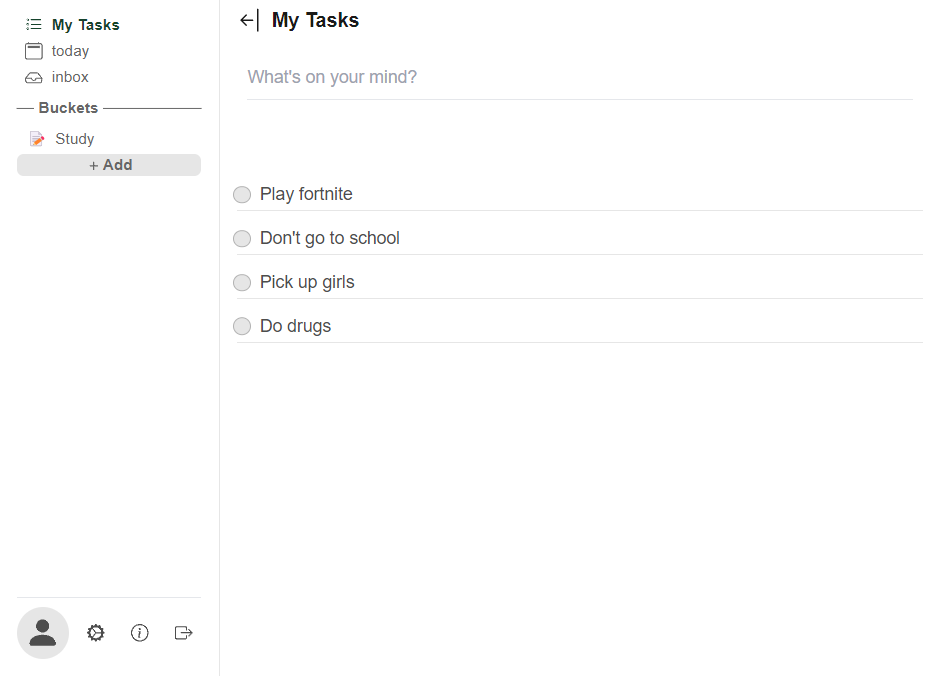
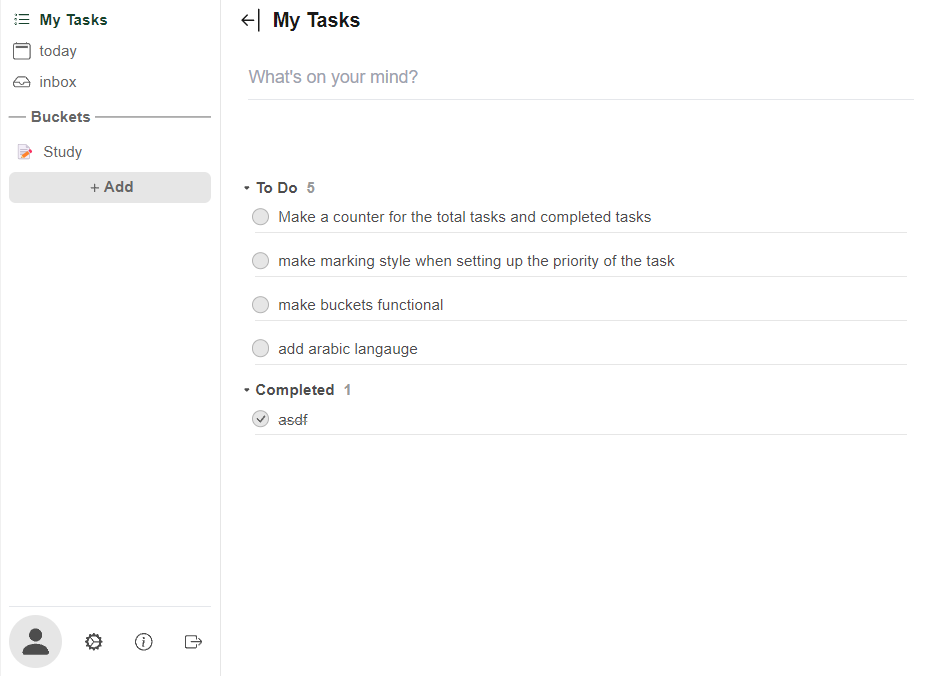
added count at the sidebar lists, adjsuted some button sizes

diff --git a/src/components/SideBar.tsx b/src/components/SideBar.tsx
@@ -6,6 +6,7 @@ import { useQuery, useMutation, useQueryClient } from '@tanstack/react-query';
 // API
 import signOut from '@/api/signOut';
 import checkAuthAndGetUser from '@/api/checkAuthAndGetUser';
+import getTasks from '@/api/getTasks';
 
 // UTILS
 import Redirector from '@/utils/Redirector';
@@ -45,7 +46,12 @@ export default function SideBar () {
   const { data: user, isLoading } = useQuery({
     queryKey: ['auth'],
     queryFn: checkAuthAndGetUser
-  })
+  });
+
+  const { data: tasks } = useQuery({
+    queryKey: ['tasks'],
+    queryFn: getTasks
+  }) 
 
   const signOutMutation = useMutation({
     mutationFn: signOut,
@@ -137,6 +143,13 @@ export default function SideBar () {
             <span>
               My Tasks
             </span>
+            <span
+              className={`
+                ml-auto font-bold text-xs text-body-extra-light px-2 py-1 bg-[var(--background-light-color)] rounded-[2rem]
+              `}
+            >
+              {tasks?.filter((itm: any) => !itm.is_completed).length}
+            </span>
           </li>
           <li
             className={`
@@ -153,6 +166,13 @@ export default function SideBar () {
             <span>
               today
             </span>
+            <span
+              className={`
+                ml-auto font-bold text-xs text-body-extra-light px-2 py-1 bg-[var(--background-light-color)] rounded-[2rem]
+              `}
+            >
+              0
+            </span>
           </li>
           <li
             className={`
@@ -168,6 +188,13 @@ export default function SideBar () {
             <InboxSvg color={`${currentTab === 'inbox' ? 'var(--primary-color)' : 'var(--font-light-color'}`} />
             <span>
               inbox
+            </span>
+            <span
+              className={`
+                ml-auto font-bold text-xs text-body-extra-light px-2 py-1 bg-[var(--background-light-color)] rounded-[2rem]
+              `}
+            >
+              0
             </span>
           </li>
         </ul>
@@ -196,6 +223,13 @@ export default function SideBar () {
             </span>
             <span>
               Study
+            </span>
+            <span
+              className={`
+                ml-auto font-bold text-xs text-body-extra-light px-2 py-1 bg-[var(--background-light-color)] rounded-[2rem]
+              `}
+            >
+              0
             </span>
           </li>
           <li

diff --git a/src/app/myTasks/page.tsx b/src/app/myTasks/page.tsx
@@ -192,7 +192,7 @@ export default function MyTasks () {
         `}
       >
         <input 
-          className="peer task-input text-body outline-none bg-[var(--background-color)]"
+          className="peer task-input text-body outline-none bg-[var(--background-color)] px-2 text-md text-body"
           placeholder="What's on your mind?" 
           name="addTask"
           onChange={handleChange}
@@ -208,12 +208,12 @@ export default function MyTasks () {
           `}
         >
           <button
-            className="text-sm text-body-invert font-bold px-2 py-2 bg-[var(--background-light-invert-color)] p-2 rounded-md"
+            className="text-xs text-body-invert font-bold px-2 py-2 bg-[var(--background-light-invert-color)] p-2 rounded-md"
           >
             Cancel
           </button>
           <button
-            className="btn-a px-2 py-2 text-sm"
+            className="btn-a px-2 py-2 text-xs"
             data-type="add_button_is_clicked"
             onClick={handleClick}
           >

diff --git a/src/components/DisplayTasks.tsx b/src/components/DisplayTasks.tsx
@@ -162,7 +162,7 @@ export default function DisplayTasks ({ tasks = null, isTasksLoading = true }: T
           `}
         
         >
-          {tasks?.length}
+          {tasks?.filter(itm => !itm.is_completed).length}
         </span>
       </div>
       <ul
